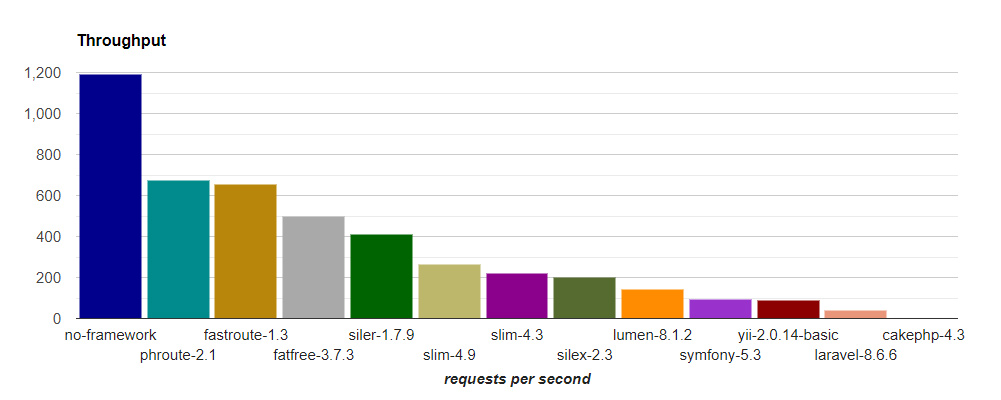
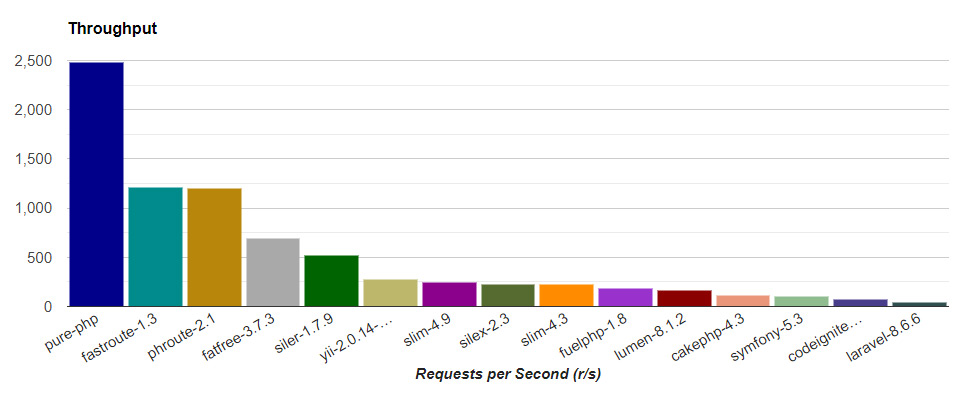
Update README.MD & shots

Changed region(s): [[0.0, 0.1218, 0.9928, 0.9746], [0.062, 0.0609, 0.1861, 0.1218], [0.031, 0.8528, 0.062, 0.8832]]

diff --git a/README.md b/README.md
@@ -39,7 +39,7 @@ If you find something wrong with my code, please feel free to send Pull Requests
 
 These are my benchmarks, not yours. **I encourage you to run on your (production equivalent) environments.**
 
-(2021/11/11)
+(2021/12/01)
 
 ![Benchmark Results Graph Throughput](screenshots/php-frameworks-bench-throughput.jpg)
 ![Benchmark Results Graph Memory](screenshots/php-frameworks-bench-memory.jpg)
